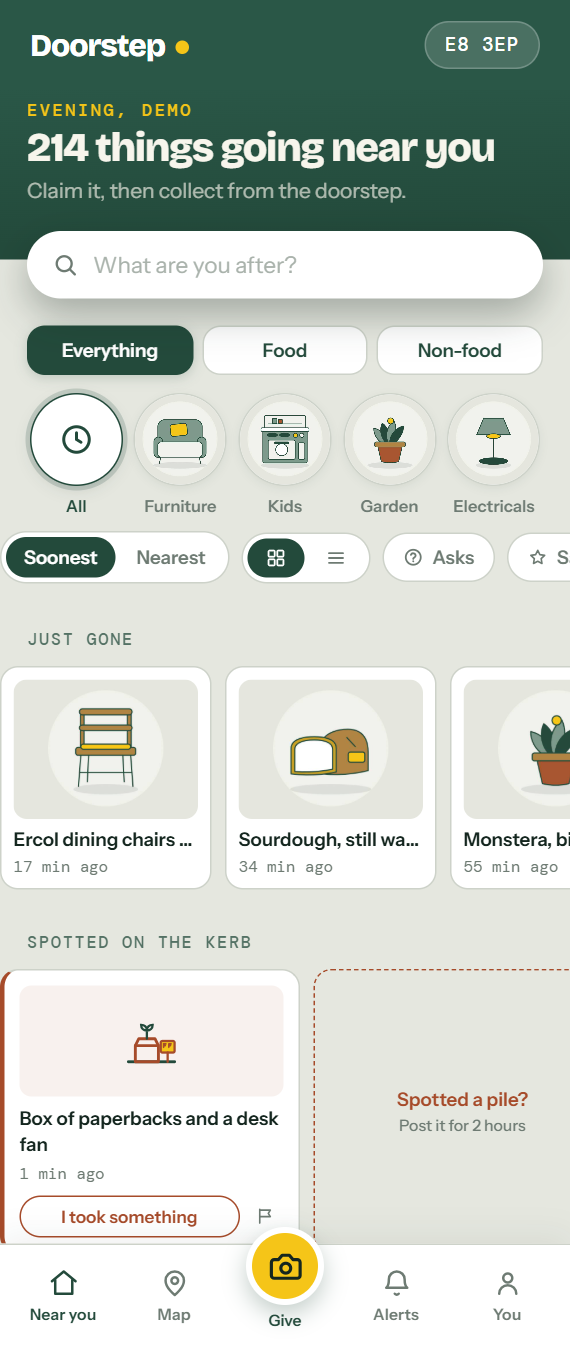
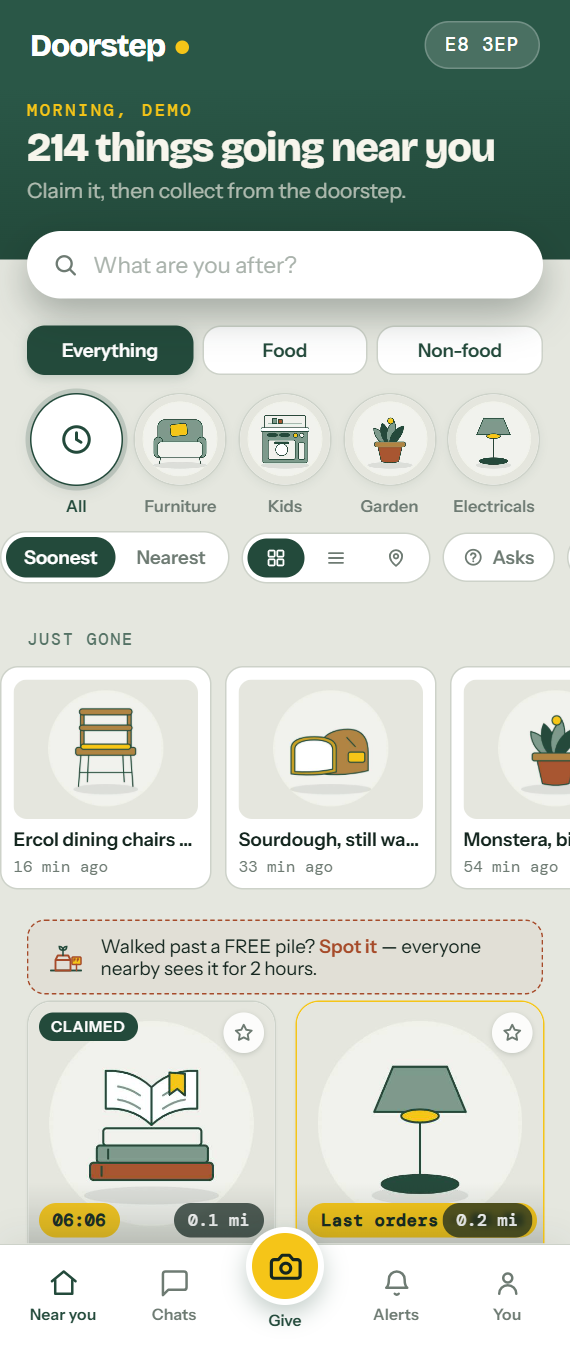
Chats move to the front, and wear it like a messenger
Messages were buried three taps deep on the profile — for the feature that
arranges every handover. Now Chats sits in the bottom bar where the map
was, with an unread bubble that ticks live over SSE, and the map becomes
the third way of looking beside grid and list, where a view mode belongs.

The list reads like the apps people already live in: round item photo with
a small stamp saying which way the kindness went (yellow up for giving,
green down for collecting), bold name and item, greyed preview with "You:"
when you spoke last, the time on the right, a green count bubble where
something waits, a tick where a handover finished, and a soft yellow tint
on unread rows. Three pill tabs — All, Unread (with its count), Sent —
filter the lot.

The profile rows and badge shelf also stop centring their text like a
plaque and read left, like sentences.

72 tests pass, all 18 screen checks clean, synced to Android and iOS.

Changed region(s): [[0.0, 0.6844, 0.9544, 0.9956], [0.6263, 0.3733, 1.0, 0.4356], [0.0596, 0.0622, 0.0895, 0.0933]]

diff --git a/src/App.jsx b/src/App.jsx
@@ -677,6 +677,7 @@ export default function Doorstep() {
   /* the arrangement threads: the list, the open one, and what's unread */
   const [chats, setChats] = useState([]);
   const [chatUnread, setChatUnread] = useState(0);
+  const [chatTab, setChatTab] = useState("all");
   const [chatId, setChatId] = useState(null);
   const [thread, setThread] = useState(null);
   const [hands, setHands] = useState([]);
@@ -3090,16 +3091,46 @@ export default function Doorstep() {
   /* ---------------- messages ---------------- */
 
   if (screen === "chats") {
+    const shown = chats.filter((c) =>
+      chatTab === "unread" ? c.unread > 0 : chatTab === "sent" ? c.lastMine : true
+    );
+    const when = (ms) => {
+      const d = new Date(ms);
+      const today = new Date().toDateString() === d.toDateString();
+      if (today) return d.toLocaleTimeString("en-GB", { hour: "2-digit", minute: "2-digit" });
+      const days = Math.round((Date.now() - ms) / 86400000);
+      if (days === 1) return "yesterday";
+      if (days < 7) return d.toLocaleDateString("en-GB", { weekday: "short" });
+      return d.toLocaleDateString("en-GB", { day: "numeric", month: "short" });
+    };
+
     return (
-      <SubScreen title="Messages" time={timeNow} toast={toast} onBack={() => setScreen("home")}>
-        {chats.length === 0 && (
+      <SubScreen title="Chats" time={timeNow} toast={toast} onBack={() => setScreen("home")}>
+        <div className="chat-tabs" role="tablist" aria-label="Filter conversations">
+          {[
+            { k: "all", label: "All" },
+            { k: "unread", label: `Unread${chatUnread > 0 ? ` (${chatUnread > 9 ? "9+" : chatUnread})` : ""}` },
+            { k: "sent", label: "Sent" },
+          ].map((t) => (
+            <button key={t.k} role="tab" aria-selected={chatTab === t.k} onClick={() => setChatTab(t.k)}>
+              {t.label}
+            </button>
+          ))}
+        </div>
+
+        {shown.length === 0 && (
           <div className="wish-empty">
             <img src={`${API}/photos/armchair`} alt="" />
-            <b>No conversations yet</b>
-            <span>Claim something, or have something claimed, and the thread to arrange the handover starts itself.</span>
+            <b>{chatTab === "unread" ? "Nothing unread" : chatTab === "sent" ? "Nothing waiting on a reply" : "No conversations yet"}</b>
+            <span>
+              {chatTab === "all"
+                ? "Claim something, or have something claimed, and the thread to arrange the handover starts itself."
+                : "All caught up. That's the good kind of empty."}
+            </span>
           </div>
         )}
-        {chats.map((c) => (
+
+        {shown.map((c) => (
           <button
             key={c.id}
             className={`chat-row ${c.unread > 0 ? "unread" : ""}`}
@@ -3112,19 +3143,25 @@ export default function Doorstep() {
               {c.photoRef || c.photo ? (
                 <img src={c.photo || `${API}/photos/${c.photoRef}`} alt="" loading="lazy" />
               ) : (
-                <svg width="20" height="20" viewBox="0 0 24 24" fill="none" stroke="currentColor" strokeWidth="2" strokeLinecap="round" strokeLinejoin="round"><path d="M5 8h14l-1.2 11.2a2 2 0 0 1-2 1.8H8.2a2 2 0 0 1-2-1.8z" /><path d="M9 8V6a3 3 0 0 1 6 0v2" /></svg>
+                <span className="chat-initial">{c.with.slice(0, 1).toUpperCase()}</span>
               )}
+              <i className={`chat-role ${c.role}`} aria-hidden="true">
+                {c.role === "giving" ? "↑" : "↓"}
+              </i>
             </span>
             <span className="chat-lines">
               <b>
-                {c.title}
-                <em>{c.role === "giving" ? ` · to ${c.with}` : ` · from ${c.with}`}</em>
+                {c.with}
+                <em> · {c.title}</em>
               </b>
-              <small>{c.lastBody.length > 64 ? `${c.lastBody.slice(0, 64)}…` : c.lastBody}</small>
+              <small className={c.unread > 0 ? "loud" : ""}>
+                {c.lastMine ? "You: " : ""}
+                {c.lastBody.length > 52 ? `${c.lastBody.slice(0, 52)}…` : c.lastBody}
+              </small>
             </span>
             <span className="chat-side">
-              <small>{agoLabel(Math.max(1, Math.round((Date.now() - c.lastAt) / 60000)))}</small>
-              {c.unread > 0 && <i className="chat-dot">{c.unread}</i>}
+              <small className={c.unread > 0 ? "loud" : ""}>{when(c.lastAt)}</small>
+              {c.unread > 0 ? <i className="chat-dot">{c.unread}</i> : c.done ? <i className="chat-done" aria-label="Handover complete">✓</i> : null}
             </span>
           </button>
         ))}
@@ -4474,6 +4511,12 @@ export default function Doorstep() {
                     <path d="M4 6.5h16M4 12h16M4 17.5h16" />
                   </svg>
                 </button>
+                <button aria-pressed={false} aria-label="Map view" onClick={() => setScreen("map")}>
+                  <svg width="14" height="14" viewBox="0 0 24 24" fill="none" stroke="currentColor" strokeWidth="2.1" strokeLinecap="round" strokeLinejoin="round" aria-hidden="true">
+                    <path d="M12 21s-7-5.5-7-11a7 7 0 0 1 14 0c0 5.5-7 11-7 11z" />
+                    <circle cx="12" cy="10" r="2.5" />
+                  </svg>
+                </button>
               </div>
 
               <button className="saved-toggle" aria-pressed={asksOnly} onClick={() => setAsksOnly((v) => !v)}>
@@ -4864,12 +4907,20 @@ export default function Doorstep() {
               </svg>
               Near you
             </button>
-            <button className="tabbar-btn" onClick={() => setScreen("map")}>
-              <svg viewBox="0 0 24 24" fill="none" stroke="currentColor" strokeWidth="1.9" strokeLinecap="round" strokeLinejoin="round" aria-hidden="true">
-                <path d="M12 21s-7-5.5-7-11a7 7 0 0 1 14 0c0 5.5-7 11-7 11z" />
-                <circle cx="12" cy="10" r="2.5" />
-              </svg>
-              Map
+            <button
+              className="tabbar-btn"
+              onClick={() => {
+                if (needsAccount("Sign in to message your neighbours")) return;
+                setScreen("chats");
+              }}
+            >
+              <span className="tabbar-icon">
+                <svg viewBox="0 0 24 24" fill="none" stroke="currentColor" strokeWidth="1.9" strokeLinecap="round" strokeLinejoin="round" aria-hidden="true">
+                  <path d="M21 15a2 2 0 0 1-2 2H7l-4 4V5a2 2 0 0 1 2-2h14a2 2 0 0 1 2 2z" />
+                </svg>
+                {chatUnread > 0 && <em>{chatUnread > 9 ? "9+" : chatUnread}</em>}
+              </span>
+              Chats
             </button>
 
             {/* the one thing the app wants you to do, sat under the thumb */}

diff --git a/src/styles.css b/src/styles.css
@@ -4073,3 +4073,80 @@ input.range:focus-visible { outline: 2px solid var(--railing); outline-offset: 4
 .policy p { font-size: 13.5px; line-height: 1.6; color: var(--ink); margin: 0 0 10px; }
 .policy .sub-head { margin: 18px 0 8px; }
 .policy b { color: var(--railing); }
+
+/* ---------- chats, worn like a messenger ----------
+   The list reads like the apps people already live in: round picture, bold
+   name, greyed preview, time on the right, a green count where something
+   waits. The little arrow on the picture says which way the kindness went. */
+
+.chat-tabs {
+  display: flex;
+  gap: 6px;
+  margin-bottom: 14px;
+  background: rgba(35, 74, 59, 0.08);
+  border-radius: 999px;
+  padding: 4px;
+}
+.chat-tabs button {
+  flex: 1;
+  border: none;
+  border-radius: 999px;
+  background: transparent;
+  font-family: var(--body);
+  font-size: 13px;
+  font-weight: 600;
+  color: var(--hush);
+  padding: 8px 4px;
+  cursor: pointer;
+}
+.chat-tabs button[aria-selected="true"] {
+  background: var(--railing);
+  color: #fff;
+  box-shadow: 0 2px 8px rgba(20, 38, 31, 0.25);
+}
+
+.chat-pic { position: relative; border-radius: 50%; }
+.chat-pic img { border-radius: 50%; }
+.chat-initial {
+  width: 100%;
+  height: 100%;
+  display: grid;
+  place-items: center;
+  font-family: var(--display);
+  font-weight: 700;
+  font-size: 18px;
+  color: #fff;
+  background: var(--railing);
+  border-radius: 50%;
+}
+.chat-role {
+  position: absolute;
+  right: -2px;
+  bottom: -2px;
+  width: 18px;
+  height: 18px;
+  border-radius: 50%;
+  font-style: normal;
+  font-size: 11px;
+  font-weight: 700;
+  display: grid;
+  place-items: center;
+  border: 2px solid var(--card);
+}
+.chat-role.giving { background: var(--signal); color: var(--ink); }
+.chat-role.collecting { background: var(--railing); color: #fff; }
+
+.chat-row { border-radius: 18px; }
+.chat-row.unread { background: rgba(245, 197, 24, 0.07); }
+.chat-lines small.loud { color: var(--ink); font-weight: 600; }
+.chat-side small.loud { color: var(--railing); font-weight: 700; }
+.chat-done {
+  font-style: normal;
+  font-size: 12px;
+  font-weight: 700;
+  color: rgba(35, 74, 59, 0.45);
+}
+
+/* the profile rows and badge shelf read left, like sentences */
+.badge-copy, .link-copy, .badge-copy b, .link-copy > span { text-align: left; }
+.profile-links button { text-align: left; }

diff --git a/server/index.js b/server/index.js
@@ -1821,6 +1821,7 @@ app.get(
               gu.name AS giver_name, cu.name AS claimer_name,
               (SELECT body FROM messages m WHERE m.conversation_id = c.id ORDER BY m.id DESC LIMIT 1) AS last_body,
               (SELECT created_at FROM messages m WHERE m.conversation_id = c.id ORDER BY m.id DESC LIMIT 1) AS last_at,
+              (SELECT m.sender_id = $1 FROM messages m WHERE m.conversation_id = c.id AND m.sender_id IS NOT NULL ORDER BY m.id DESC LIMIT 1) AS last_mine,
               (SELECT COUNT(*) FROM messages m
                  WHERE m.conversation_id = c.id AND m.read_at IS NULL
                    AND m.sender_id IS NOT NULL AND m.sender_id <> $1) AS unread
@@ -1846,6 +1847,7 @@ app.get(
           role: giving ? "giving" : "collecting",
           lastBody: c.last_body || "",
           lastAt: num(c.last_at || c.created_at),
+          lastMine: c.last_mine === true,
           unread: num(c.unread),
           done: c.collected_at != null,
         };
